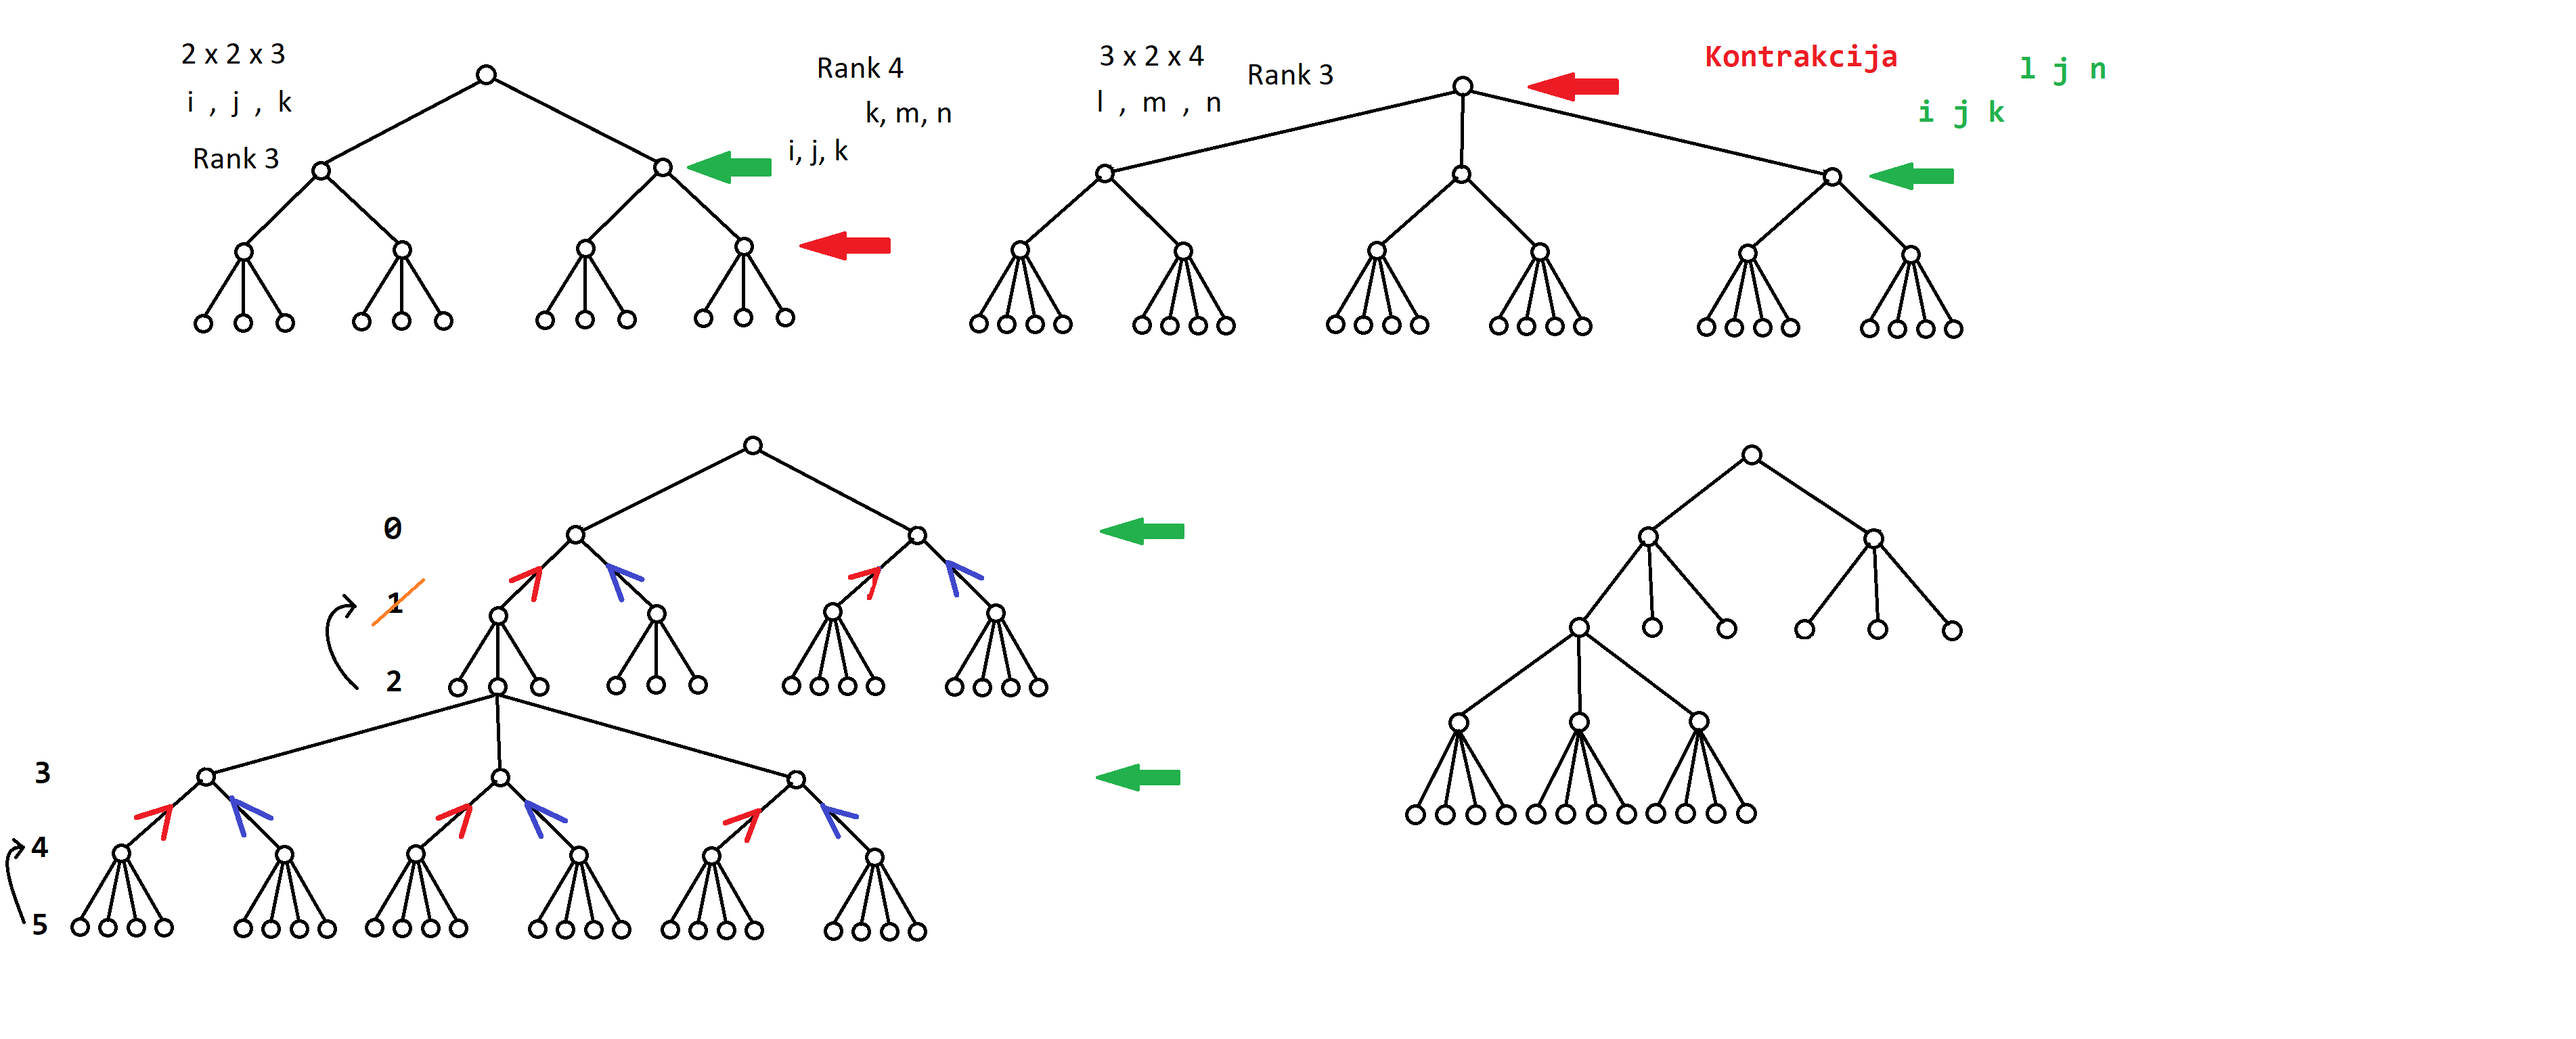
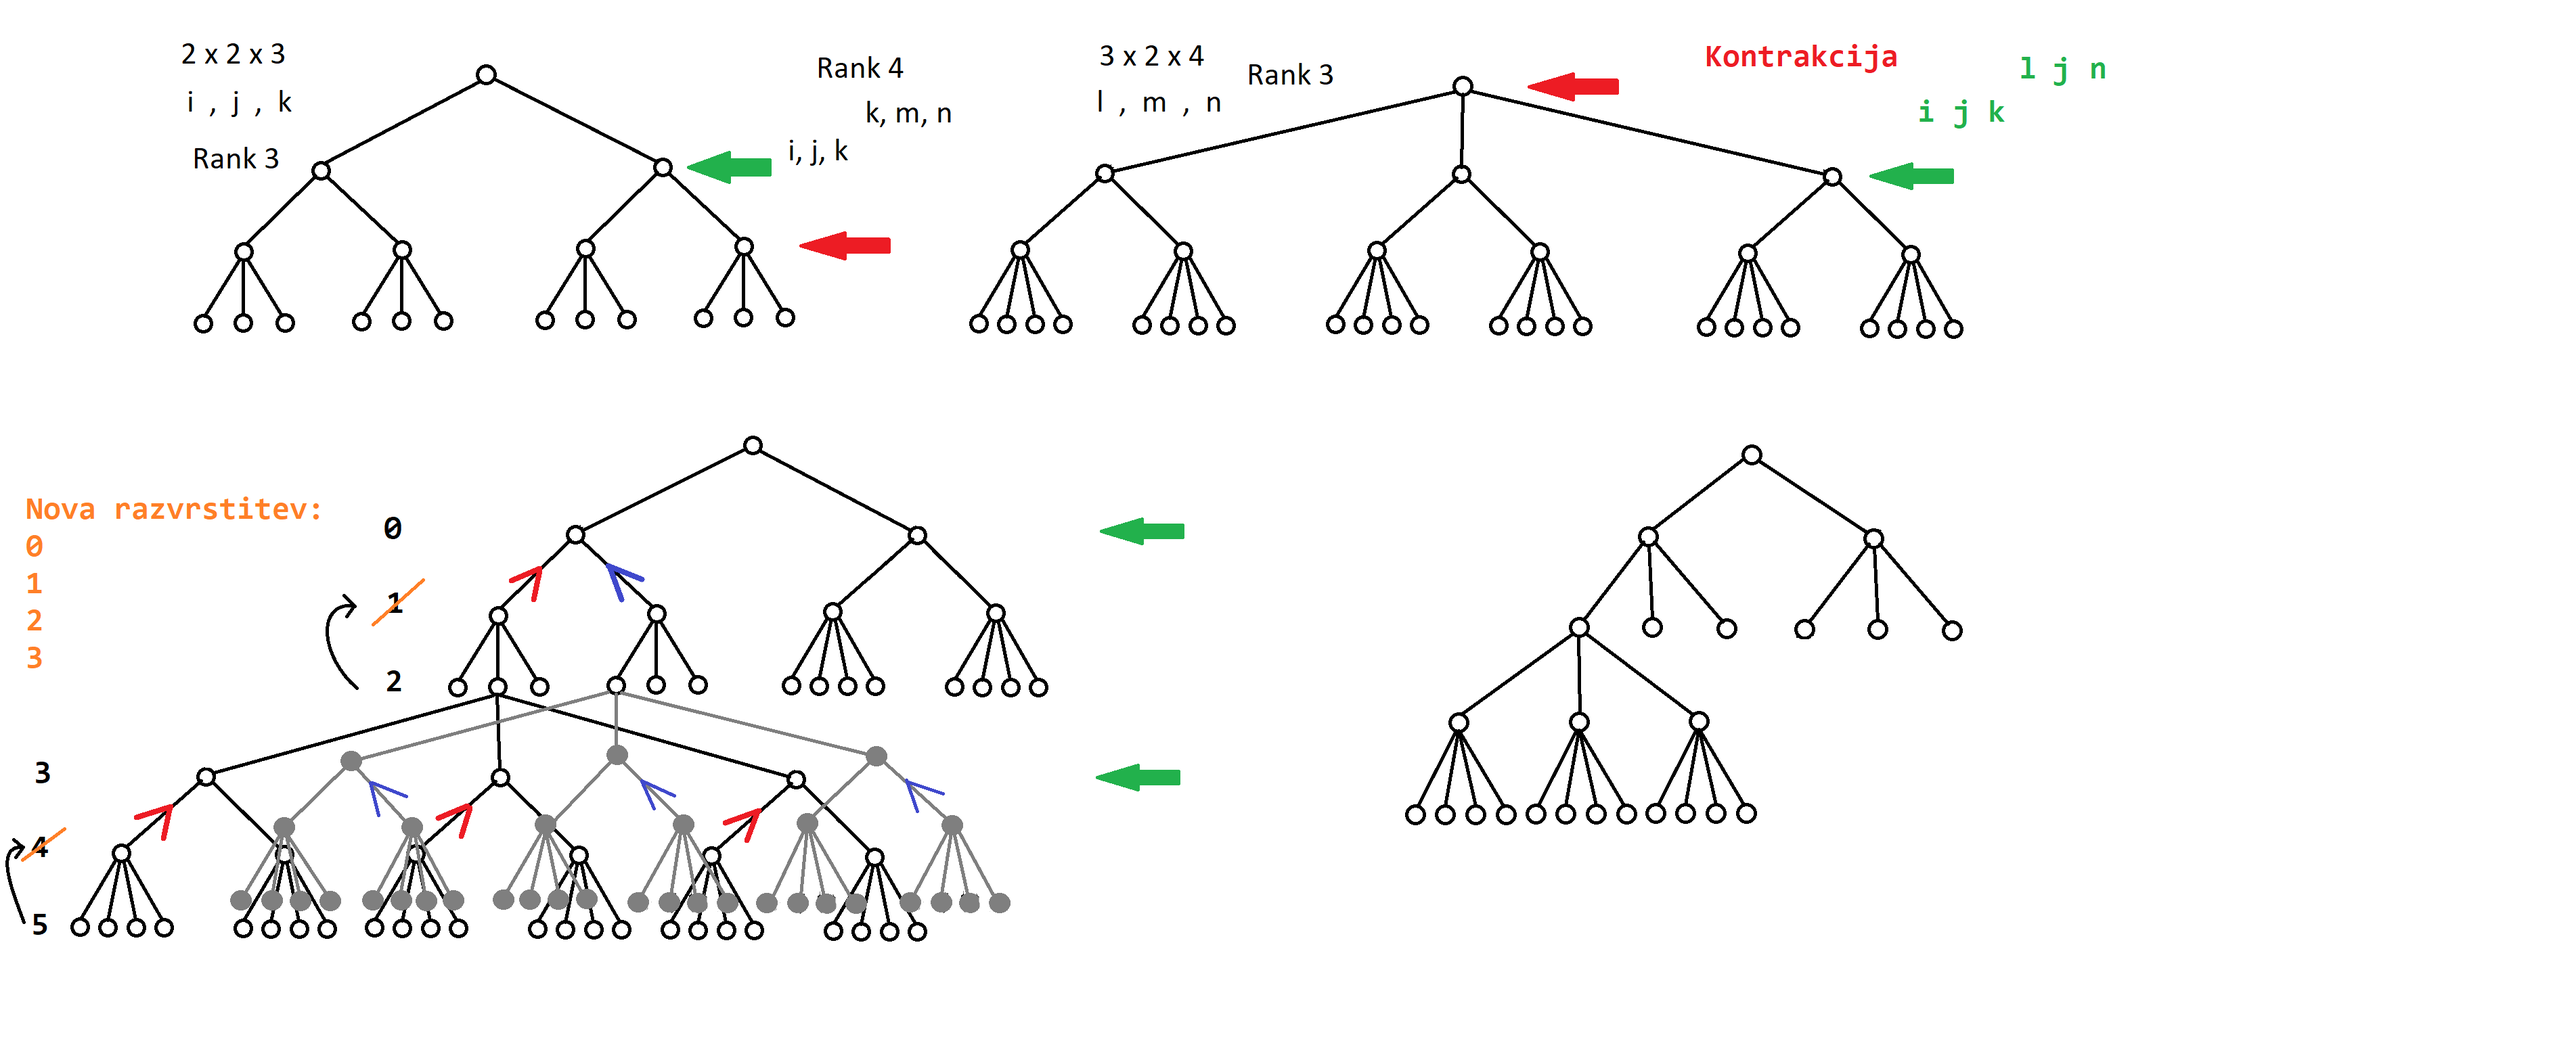
Finally some idea of how to impl. contraction.

diff --git a/Internals/Collections/_Sparse/Tensor_τα.cs b/Internals/Collections/_Sparse/Tensor_τα.cs
@@ -291,14 +291,24 @@ namespace Fluid.Internals.Collections {
       public Tensor<τ,α> TnrProduct(Tensor<τ,α> tnr2) {  // TODO: Implement Tensor Product on tensor.
          throw new NotImplementedException();
       }
+      /// <summary>Eliminates a single rank out of a tensor by choosing a single subtensor at that rank and making it take the place of its direct superior (thus discarding all other subtensors at that rank). The resulting tensor has therefore its rank reduced by one.</summary>
+      /// <param name="rInx">Intuitive rank index.</param>
+      /// <param name="eInx">Element index in that rank.</param>
+      /// <returns></returns>
+      Tensor<τ,α> Eliminate(int rInx, int eInx) {
+
+      }
       /// <summary>Contracts  two tensors over specified (rank) indices. Indices are specified intuitively - in the order they are written out (sacrificing consistency with regards to rank indexing in this class, chosen so that the value rank has the lowest index (zero). CLarification by example: Contraction writen as A^(ijkl)B^(mnip) is specified as a (0,2) contraction of A and B (not a (3,1) contraction).</summary>
       /// <param name="inx1">Index on this tensor over which to to contract.</param>
       /// <param name="tnr2">Other tensor.</param>
       /// <param name="inx2">Index on other tensor over which to contract (the rank on tnr2 that this index represents must have the same dimension as the rank on tnr1 represented by inx1).</param>
       /// <remarks>Tensor contraction is a generalization of trace, which can further be viewed as a generalization of dot product.</remarks>
       public Tensor<τ,α> Contract(int inx1, Tensor<τ,α> tnr2, int inx2) {
-         // Take into account: What if the tensors are both part of another higher rank tensor and have the contraction indices specified relative to them?
-         // Decision: Returned contracted tensor will be its own independent tensor (it will be top rank).
+         // 1) Take into account: What if the tensors are both part of another higher rank tensor and have the contraction indices specified relative to them?
+         // 2) Decision: Returned contracted tensor will be its own independent tensor (it will be top rank).
+         // 3) Note: It is most intuitive to treat the two tensors being contracted (one of rank R1, another of rank R2) as one tensor of rank R1+ R2, where you properly remap the rank indices and do the multiplication on rank 0 elements on demand.
+         // 4) On the other hand, you do not want to use the indexer to perform the calculation. It's best to use the enumerator. Therefore, the approach in point 3 is not good.
+         // 5) Write an Absorb method where you specify the rank index at which to absorb and an index of the tensor inside that rank that will get absorbed (thus, all other tensors at that rank being discarded).
          int hostTopRank1 = Structure.Length - 1,                                      // host = tensor at the top of the hierarchy.
              hostTopRank2 = tnr2.Structure.Length - 1,
              hostRankDif1 = hostTopRank1 - Rank,
@@ -312,15 +322,13 @@ namespace Fluid.Internals.Collections {
             structure2 = tnr2.Structure.Skip(hostRankDif2).ToArray();
          else
             structure2 = tnr2.Structure;
-         TB.Assert.AreEqual(structure1[inx1], structure2[inx2],                        // First, check that the dimensions of ranks being contracted are equal.
+         TB.Assert.AreEqual(structure1[inx1], structure2[inx2],                        // Check that the dimensions of contracted ranks are equal.
             "Rank dimensions at specified indices must be equal when contracting.");
-         
-         int dim1 = Structure[inx1];            // Dimension of rank we're contracting on tnr1.
-         int dim2 = tnr2.Structure[inx2];       // Dimension of rank we're contracting on tnr2.
+         int cDim = Structure[inx1];            // Dimension of rank we're contracting.
          //var parSeq1 = Enumerable.Range(0, dim).Select(i => {
          //      Array.Copy(Structure, new int[nRanks1], nRanks1)
          //   }
-         for(int i = 0, n = dim1 - 1; i < n; ++i) {
+         for(int i = 0; i < cDim; ++i) {
 
          }
       }
